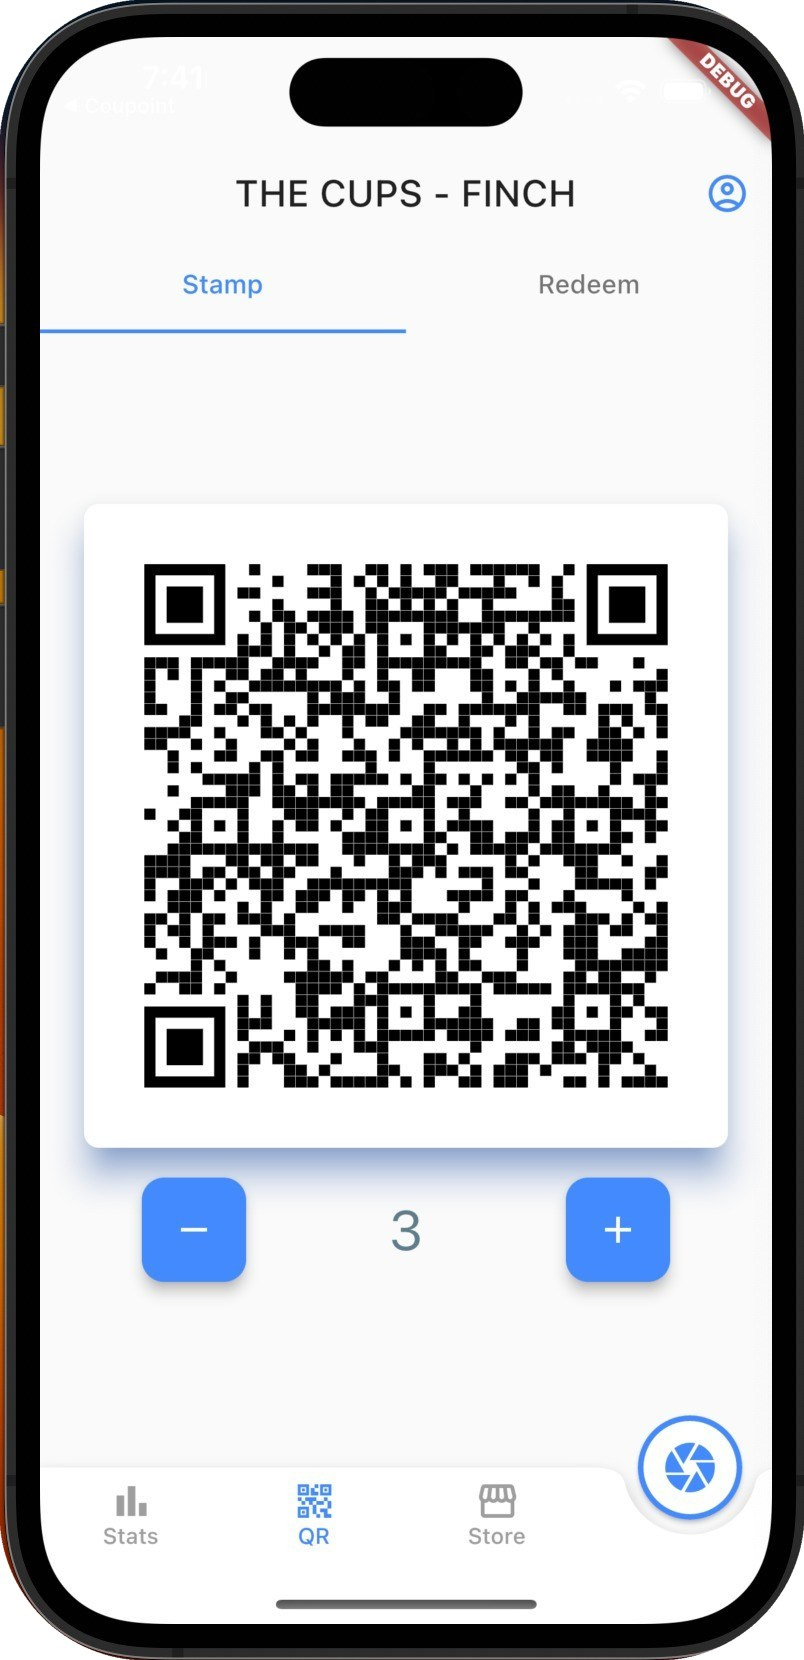
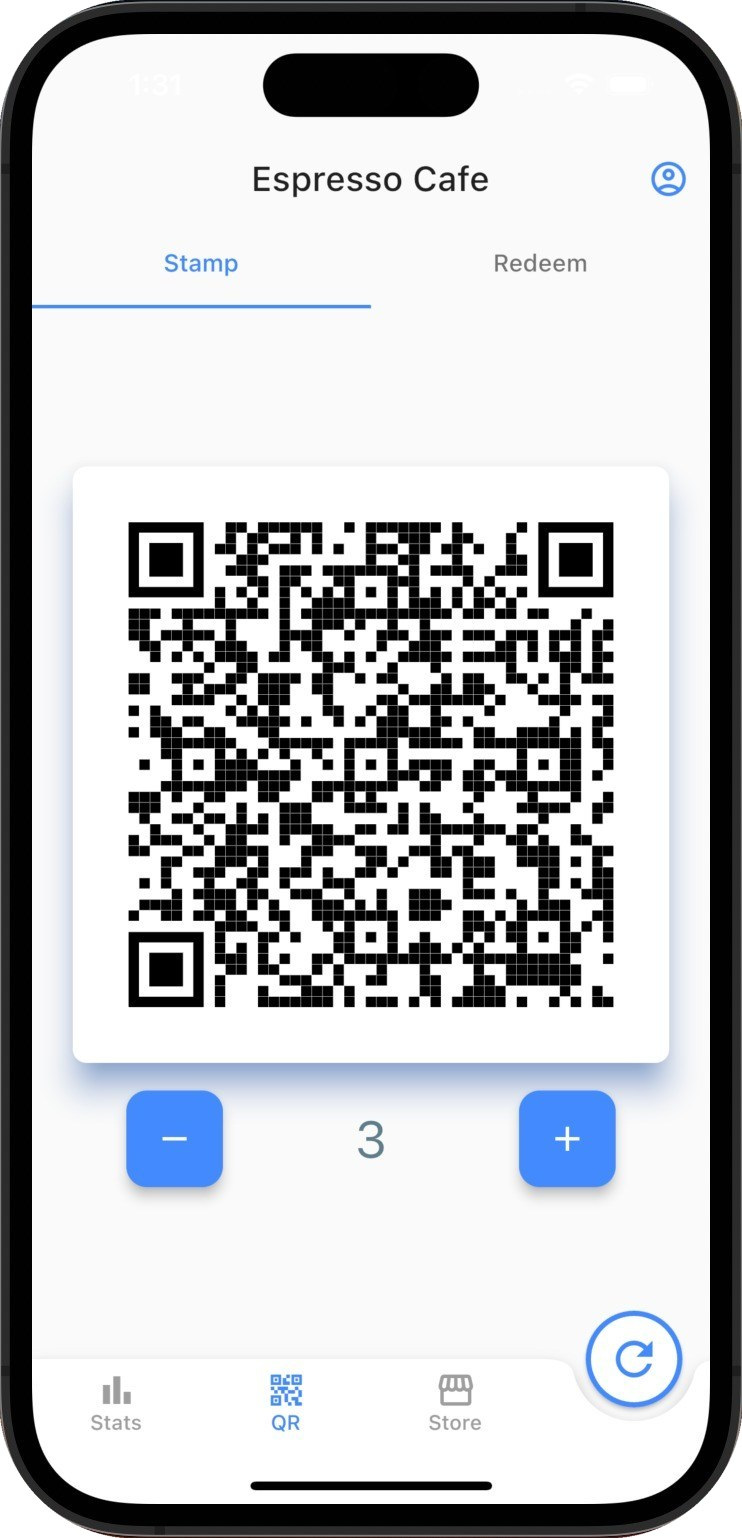
update screenshots & copy

diff --git a/index.html b/index.html
@@ -51,10 +51,18 @@
                         Coupoint<br>
                     </h1>
                     <p data-aos="fade" data-aos-easing="linear" data-aos-duration="1000" data-aos-once="true" class="lead my-4">
-                        Coupoint helps businesses better connect with their customers.
-                        <br> Try now to unlock more sales and customer satisfaction!
+                        <!-- Coupoint helps businesses better connect with their customers. -->
+
+                        Introducing our 'All-in-one' loyalty card app for your business, a solution your customers will love! 
+                        
+                        <br><br>The best part? No app or sign-up is required to get started! 
+                        <br>Your customers can simply scan the QR code <i class="fa">&#xf029;</i> using their phone's camera, instantly saving your store's loyalty card on their devices. 🚀
+
+                        <br><br> Try it now to unlock greater sales and customer satisfaction!
                     </p>
-                    <a href="#" data-aos="fade" data-aos-easing="linear" data-aos-duration="1000" data-aos-once="true"
+                    <a href="#contact" data-aos="fade" data-aos-easing="linear" data-aos-duration="1000" data-aos-once="true"
+                        class="btn my-4 font-weight-bold atlas-cta cta-gold">Contact us for early access!</a>
+                    <!-- <a href="#" data-aos="fade" data-aos-easing="linear" data-aos-duration="1000" data-aos-once="true"
                         class="btn my-4 font-weight-bold atlas-cta cta-gold">Download Play Store</a>
                     <a href="#" data-aos="fade" data-aos-easing="linear" data-aos-duration="1000" data-aos-once="true"
                         class="btn my-4 font-weight-bold atlas-cta cta-gold">Downlaod App Store</a>
@@ -63,10 +71,10 @@
                         Not ready to download?
                     </p>
                     <a href="https://coupoint.app" data-aos="fade" data-aos-easing="linear" data-aos-duration="1000" data-aos-once="true"
-                        class="btn my-4 font-weight-bold atlas-cta cta-gold">Try on the Web</a>
+                        class="btn my-4 font-weight-bold atlas-cta cta-gold">Try on the Web</a> -->
                 </div>
                 <div class="col-md-4">
-                    <img src="img/qr-code-coupoint.svg" alt="qr-code" style="margin-top: 20%; width:100%;">
+                    <img src="img/qr-code.svg" alt="qr-code" style="margin-top: 20%; width:100%;">
                 </div>
             </div>
         </div>
@@ -79,36 +87,38 @@
                 <img src="img/stats_page.jpg" alt="Screenshot 1">
             </div>
             <div data-aos="fade-up" data-aos-delay="100" data-aos-duration="1000" data-aos-once="true">
-                <img src="img/staff_page.jpg" alt="Screenshot 2">
+                <img src="img/qr_page.jpg" alt="Screenshot 2">
             </div>
             <div data-aos="fade-up" data-aos-delay="200" data-aos-duration="1000" data-aos-once="true">
-                <img src="img/qr_page.jpg" alt="Screenshot 3">
+                <img src="img/reward_page.jpg" alt="Screenshot 3">
             </div>
             <div data-aos="fade-up" data-aos-delay="300" data-aos-duration="1000" data-aos-once="true">
-                <img src="img/reward_page.jpg" alt="Screenshot 4">
-            </div>
-            <div data-aos="fade-up" data-aos-delay="400" data-aos-duration="1000" data-aos-once="true">
-                <img src="img/posting_page.jpg" alt="Screenshot 5">
+                <img src="img/posting_page.jpg" alt="Screenshot 4">
             </div>
         </div>
     </div>
     <div class="container my-5 py-2">
         <h2 class="text-center font-weight-bold my-5">Easy to use</h2>
         <div class="row">
-            <div data-aos="fade-up" data-aos-delay="400" data-aos-duration="1000" data-aos-once="true" class="col-md-4 text-center">
-                <img src="img/smart-protect-2.jpg" alt="Redeem" class="mx-auto">
+            <div data-aos="fade-up" data-aos-delay="400" data-aos-duration="1000" data-aos-once="true" class="col-md-3 text-center">
+                <img src="img/qr-code.svg" alt="qr-code" class="mx-auto" style="padding: 10%;width: 181px">
                 <h4>Generate</h4>
-                <p>Your business generates a customized stamps and rewards encoded in QR code</p>
+                <p>Your business generates an encrypted, theft-free stamp QR code.                   <i class="fa">&#xf029;</i></p>
             </div>
-            <div data-aos="fade-up" data-aos-delay="200" data-aos-duration="1000" data-aos-once="true" class="col-md-4 text-center">
+            <div data-aos="fade-up" data-aos-delay="200" data-aos-duration="1000" data-aos-once="true" class="col-md-3 text-center">
                 <img src="img/smart-protect-3.jpg" alt="Scan" class="mx-auto">
                 <h4>Scan</h4>
-                <p>Your customer scans the QR code to get the stamp or redeem the reward</p>
+                <p>Customers scan the QR code to save your store's loyalty card on their phones 📲 </p>
             </div>
-            <div data-aos="fade-up" data-aos-delay="0" data-aos-duration="1000" data-aos-once="true" class="col-md-4 text-center">
+            <div data-aos="fade-up" data-aos-delay="800" data-aos-duration="1000" data-aos-once="true" class="col-md-3 text-center">
                 <img src="img/smart-protect-1.jpg" alt="Generate" class="mx-auto">
+                <h4>Automated "Thank you" message</h4>
+                <p>Customers will receive a "thank you" message from your store after their visit, helping you build a strong relationship with them. 💪</p>
+            </div>
+            <div data-aos="fade-up" data-aos-delay="0" data-aos-duration="600" data-aos-once="true" class="col-md-3 text-center">
+                <img src="img/smart-protect-2.jpg" alt="Redeem" class="mx-auto">
                 <h4>Advertise</h4>
-                <p>Promote your products or services by sharing captivating posts directly with your customers</p>
+                <p>Now your customers are automatically subscribed to your store's special offers and promotions. 🎉 It's a great way to encourage them to revisit. 😎</p>
             </div>
 
         </div>
@@ -118,10 +128,12 @@
         <div class="container my-5">
             <div class="row justify-content-between text-center text-md-left">
                 <div data-aos="fade-right" data-aos-duration="1000" data-aos-once="true" class="col-md-6">
-                    <h2 class="font-weight-bold">Easy to onboard</h2>
-                    <p class="my-4">No account? No app? No problem.
-                        <br> Your customers can still scan your store's stamps without having neither an account nor an app.</p>
-                    <a href="#" class="btn my-4 font-weight-bold atlas-cta cta-gold">Try on the Web</a>
+                    <h2 class="font-weight-bold">Simplified onboarding process</h2>
+                    <p class="my-4">No account? No app? No problem!
+                        <br>Customers can effortlessly scan your store's stamps without the need for an account or app.
+                    </p>
+                    <!-- Link to youtube -->
+                    <a href="#" class="btn my-4 font-weight-bold atlas-cta cta-gold">Watch the demo</a>
                 </div>
                 <div data-aos="fade-left" data-aos-duration="1000" data-aos-once="true" class="col-md-6 align-self-center">
                     <img src="img/feature-1.png" alt="Easy to onboard" class="mx-auto d-block">
@@ -134,10 +146,9 @@
         <div class="container">
             <div class="row justify-content-between text-center text-md-left">
                 <div data-aos="fade-left" data-aos-duration="1000" data-aos-once="true" class="col-md-6 flex-md-last">
-                    <h2 class="font-weight-bold">Insightful metrics</h2>
+                    <h2 class="font-weight-bold">Insightful metrics at your fingertips</h2>
                     <p class="my-4">
-                        Coupoint keeps track of how your store's loyalty reward program is doing.
-                        <br> Take advantage of the aggregated metrics on the time period of your choice.
+                        Coupoint diligently tracks the performance of your store's loyalty reward program. Leverage comprehensive aggregated metrics for your preferred time periods.
                     </p>
                 </div>
                 <div data-aos="fade-right" data-aos-duration="1000" data-aos-once="true" class="col-md-6 align-self-center flex-md-first">
@@ -230,14 +241,14 @@
         <div class="container my-5">
             <div class="row justify-content-between">
                 <div class="col-md-12 text-white align-self-center text-center">
-                    <h2 class="font-weight-bold">Contact Us</h2>
+                    <h2 id="contact" class="font-weight-bold">Contact Us</h2>
                     <p class="my-4">
-                        Have a question?
-                        <br> Feel free to reach out!
+                        Got a question? Can't wait to try it out?
+                        <br> Feel free to reach out to us for more information!
                     </p>
                     <ul class="list-unstyled">
-                        <li>General : business@coupointapp.com</li>
-                        <li>Privacy : business@coupointapp.com</li>
+                        <li>General Inquiries: business@coupointapp.com</li>
+                        <li>Privacy Concerns: business@coupointapp.com</li>
                     </ul>
                 </div>
                 <div class="col-md-6" style="display: none;">
